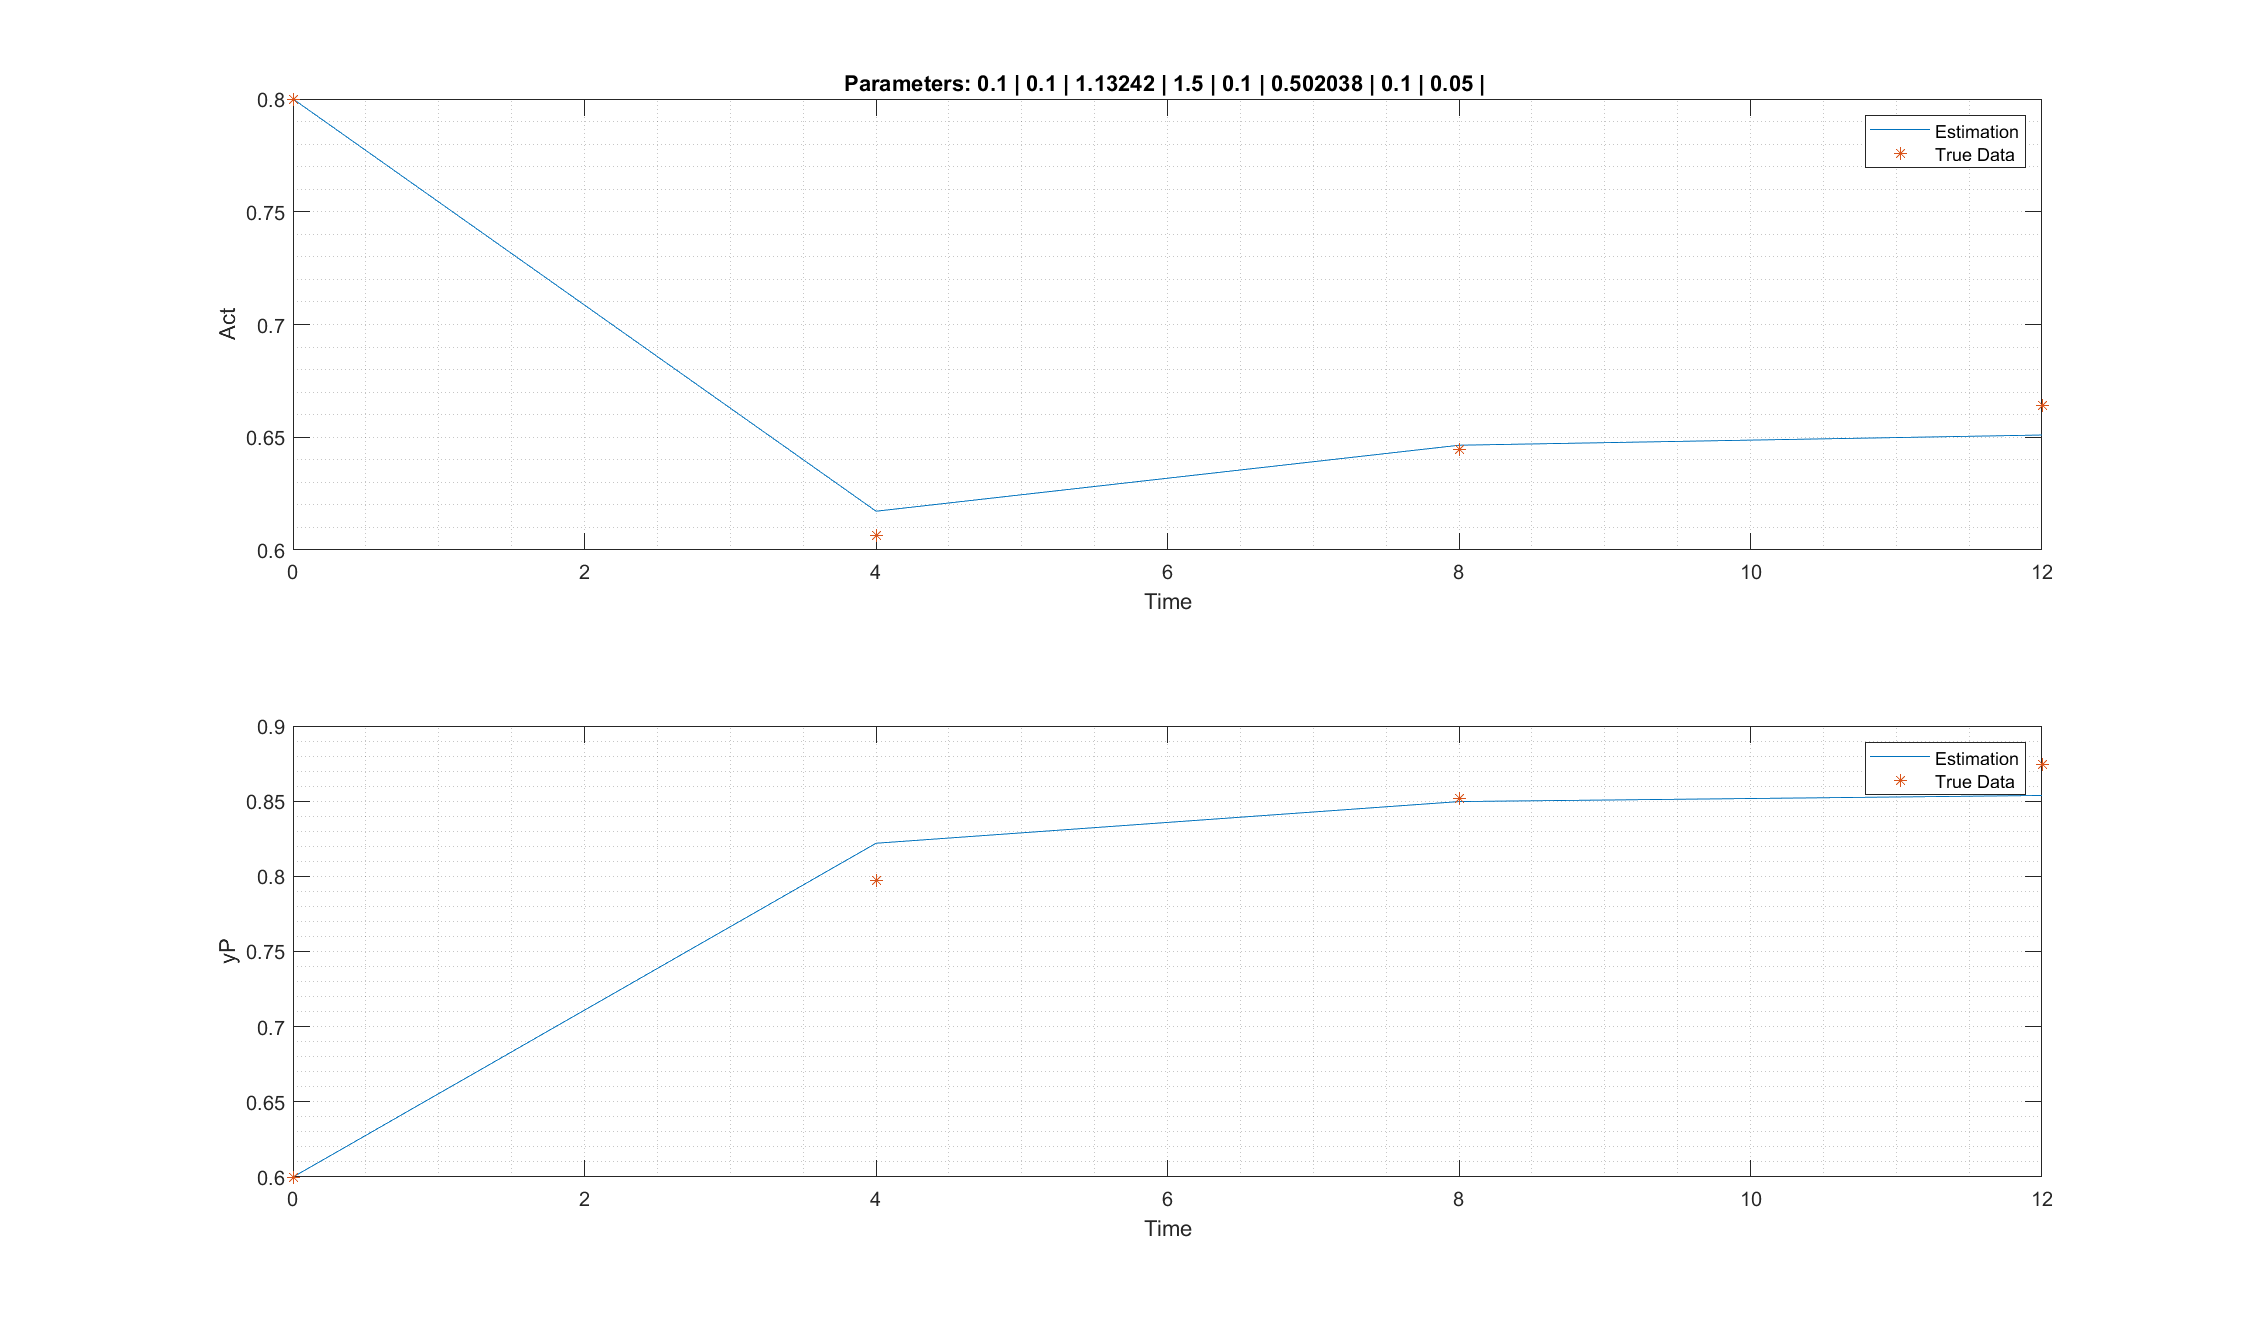
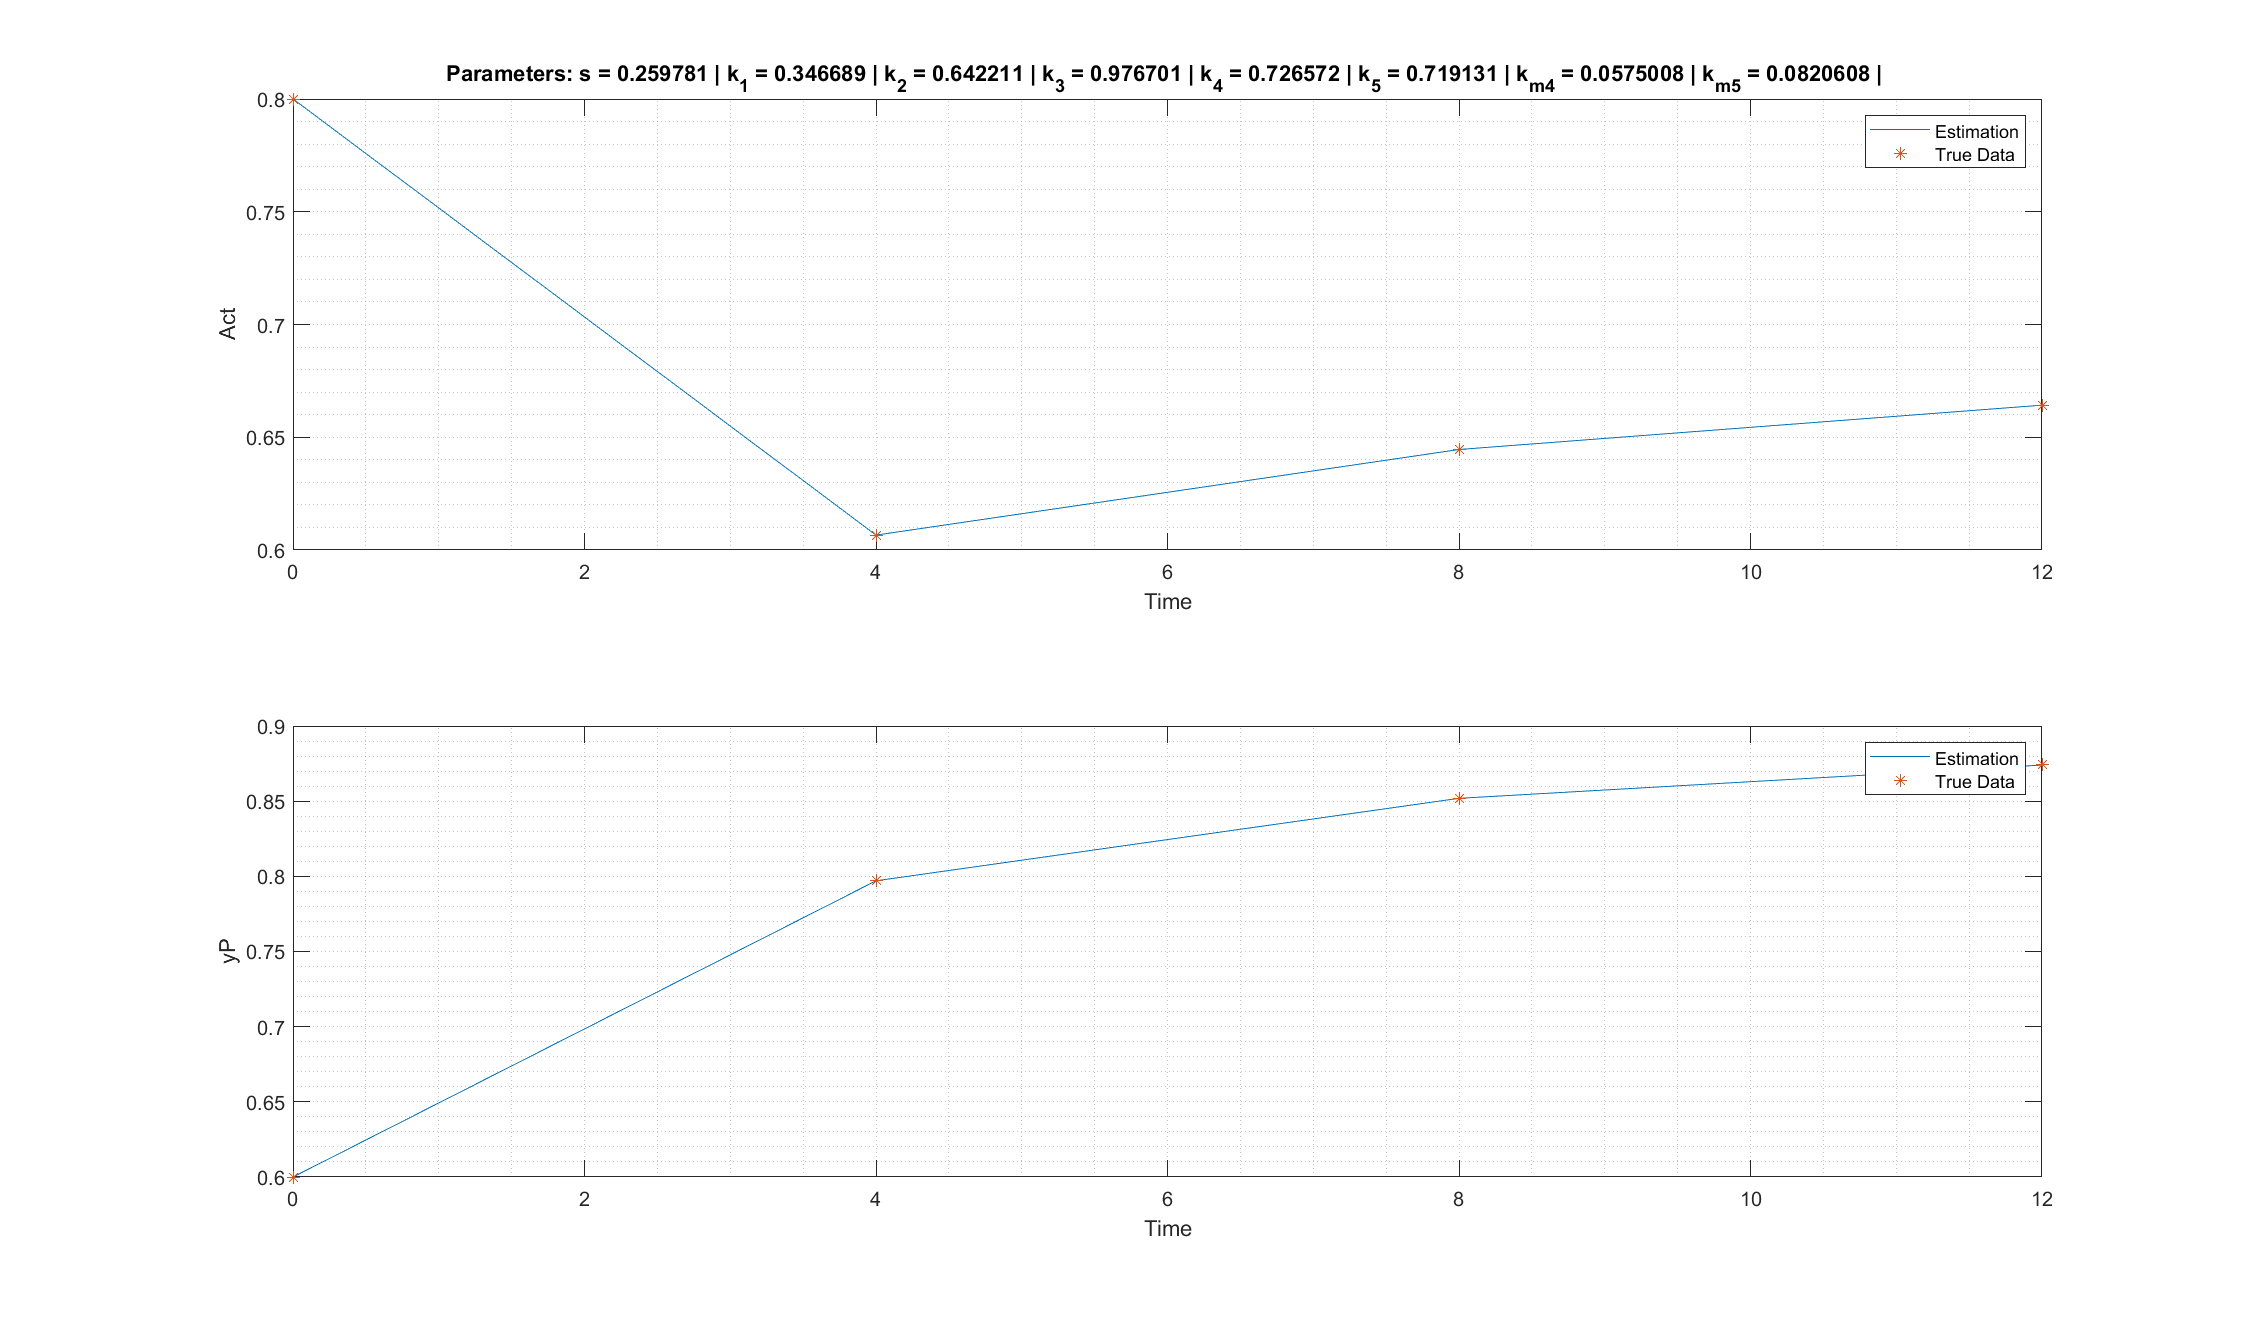
new results again

Changed region(s): [[0.1862, 0.031, 0.7447, 0.093], [0.7757, 0.031, 0.8378, 0.062]]

diff --git a/three_parameter_estimation.m b/three_parameter_estimation.m
@@ -9,8 +9,8 @@ opts = optimset('TolFun', 1e-12, 'TolX', 1e-12, 'MaxIter', 150, 'Diagnostics', '
 initParams=[0.8;0.05;0.05];
 
 % 3 parameters estimated s, km4, km5
-loBound = [0.05 0.05 0.05]; 
-upBound = [0.8 0.1 0.1];
+loBound = [0.05 0.2 0.05]; 
+upBound = [0.8 0.5 0.1];
 
 lsqnonlin(@residual,  log10 (initParams), log10 (loBound), log10 (upBound), opts);
 
